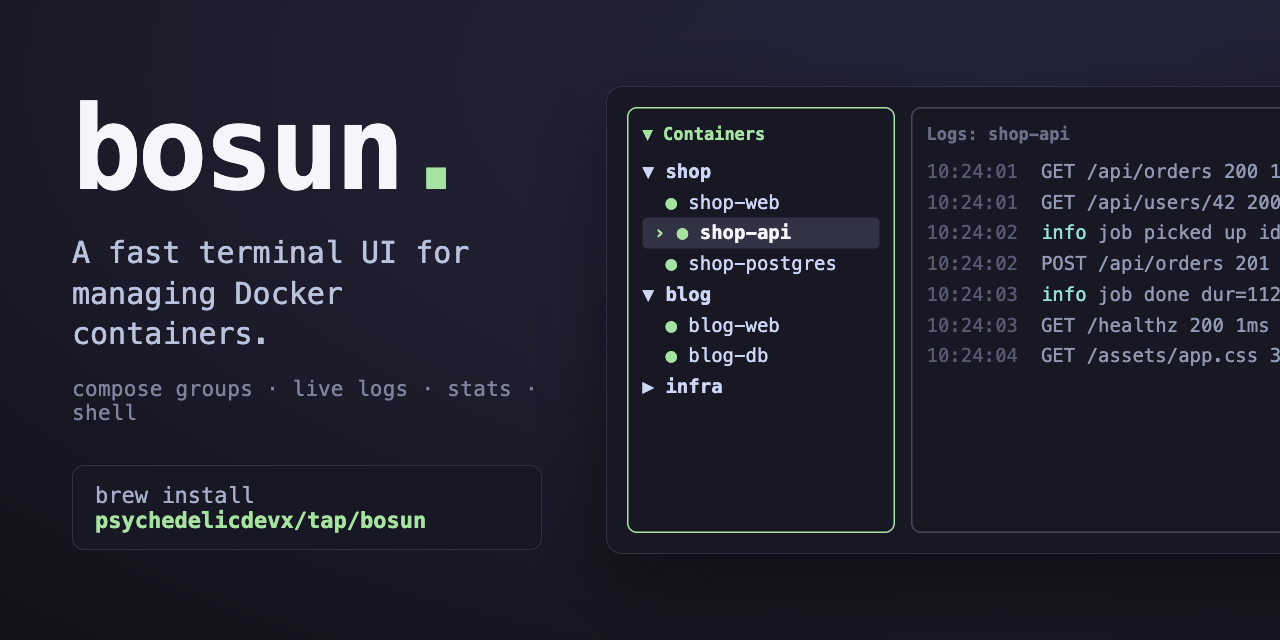
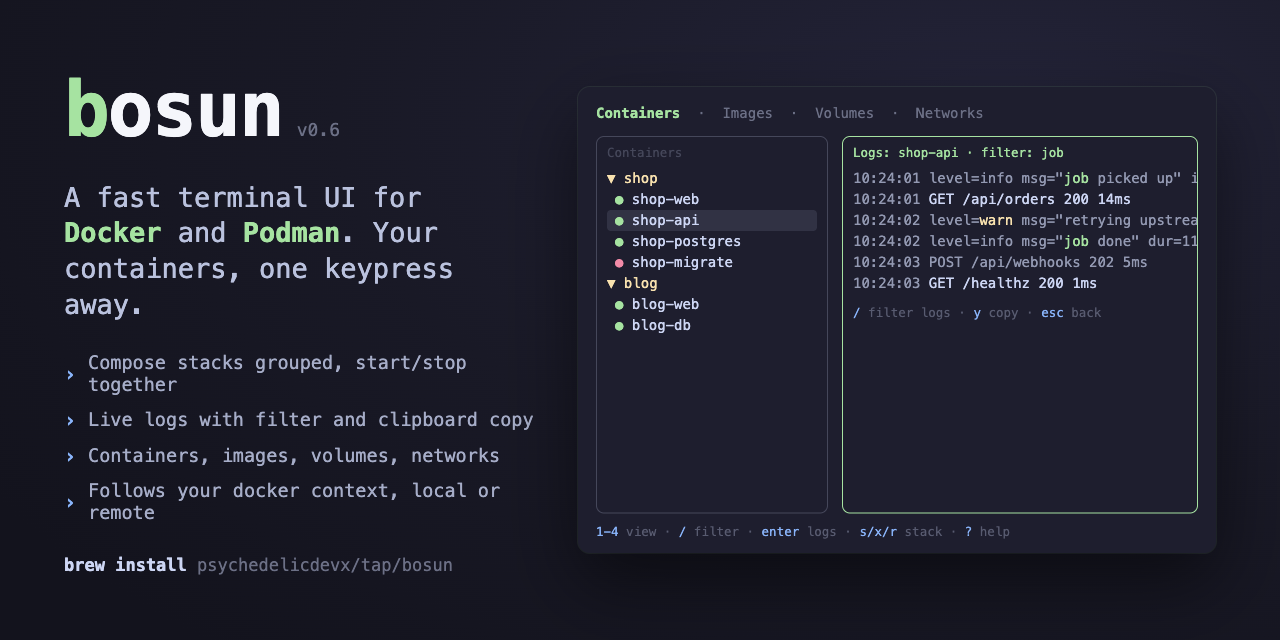
chore(media): rebuild social card for v0.6 (add source html)

diff --git a/docs/social-preview.html b/docs/social-preview.html
@@ -1,0 +1,116 @@
+<!doctype html>
+<html>
+<head>
+<meta charset="utf-8">
+<style>
+  * { margin: 0; padding: 0; box-sizing: border-box; }
+  html, body { width: 1280px; height: 640px; }
+  body {
+    display: flex;
+    align-items: center;
+    gap: 44px;
+    padding: 64px;
+    background: radial-gradient(1200px 700px at 78% 18%, #232338 0%, #191926 55%, #13131d 100%);
+    font-family: "SF Mono", "JetBrains Mono", "Menlo", monospace;
+    color: #cdd6f4;
+    overflow: hidden;
+  }
+
+  .left { width: 470px; flex: none; }
+  .brand { display: flex; align-items: baseline; gap: 14px; margin-bottom: 26px; }
+  .logo { font-size: 76px; font-weight: 700; letter-spacing: -2px; color: #f5f6fb; }
+  .logo .b { color: #a6e3a1; }
+  .ver { font-size: 18px; color: #6c7086; padding-bottom: 12px; }
+
+  .tag { font-size: 27px; line-height: 1.32; color: #bac2de; margin-bottom: 30px; font-weight: 500; }
+  .tag b { color: #a6e3a1; font-weight: 600; }
+
+  ul { list-style: none; display: flex; flex-direction: column; gap: 13px; }
+  li { font-size: 18.5px; color: #a6adc8; display: flex; align-items: center; gap: 12px; }
+  li::before { content: "›"; color: #89b4fa; font-weight: 700; font-size: 20px; }
+
+  .foot { margin-top: 32px; font-size: 17px; color: #6c7086; }
+  .foot b { color: #cdd6f4; font-weight: 600; }
+
+  /* terminal mock */
+  .term {
+    flex: 1;
+    height: 466px;
+    background: #1e1e2e;
+    border-radius: 12px;
+    box-shadow: 0 30px 70px rgba(0,0,0,.5), 0 0 0 1px rgba(166,227,161,.10);
+    padding: 16px 18px 12px;
+    display: flex;
+    flex-direction: column;
+    font-size: 14px;
+    line-height: 1.5;
+    overflow: hidden;
+  }
+  .tabs { color: #6c7086; margin-bottom: 12px; font-size: 14px; }
+  .tabs .on { color: #a6e3a1; font-weight: 600; }
+  .panels { display: flex; gap: 14px; flex: 1; min-height: 0; }
+  .panel { border: 1px solid #45475a; border-radius: 8px; padding: 6px 10px; min-height: 0; overflow: hidden; }
+  .panel.left-p { width: 232px; flex: none; }
+  .panel.right-p { flex: 1; border-color: #a6e3a1; }
+  .ptitle { color: #45475a; font-size: 12.5px; margin-bottom: 6px; }
+  .panel.right-p .ptitle { color: #a6e3a1; }
+
+  .grp { color: #f9e2af; }
+  .row { color: #cdd6f4; padding-left: 8px; }
+  .row .dot { color: #a6e3a1; }
+  .row .red { color: #f38ba8; }
+  .sel { background: #313244; border-radius: 4px; }
+
+  .log { color: #9399b2; white-space: nowrap; }
+  .log .m { color: #a6e3a1; }
+  .log .w { color: #f9e2af; }
+  .log .hi { color: #cdd6f4; }
+  .bar { margin-top: 9px; color: #585b70; font-size: 12.5px; }
+  .bar .k { color: #89b4fa; }
+</style>
+</head>
+<body>
+  <div class="left">
+    <div class="brand">
+      <div class="logo"><span class="b">b</span>osun</div>
+      <div class="ver">v0.6</div>
+    </div>
+    <div class="tag">A fast terminal UI for <b>Docker</b> and <b>Podman</b>. Your containers, one keypress away.</div>
+    <ul>
+      <li>Compose stacks grouped, start/stop together</li>
+      <li>Live logs with filter and clipboard copy</li>
+      <li>Containers, images, volumes, networks</li>
+      <li>Follows your docker context, local or remote</li>
+    </ul>
+    <div class="foot"><b>brew install</b> psychedelicdevx/tap/bosun</div>
+  </div>
+
+  <div class="term">
+    <div class="tabs"><span class="on">Containers</span> &nbsp;·&nbsp; Images &nbsp;·&nbsp; Volumes &nbsp;·&nbsp; Networks</div>
+    <div class="panels">
+      <div class="panel left-p">
+        <div class="ptitle">Containers</div>
+        <div class="grp">▼ shop</div>
+        <div class="row"><span class="dot">●</span> shop-web</div>
+        <div class="row sel"><span class="dot">●</span> shop-api</div>
+        <div class="row"><span class="dot">●</span> shop-postgres</div>
+        <div class="row"><span class="red">●</span> shop-migrate</div>
+        <div class="grp">▼ blog</div>
+        <div class="row"><span class="dot">●</span> blog-web</div>
+        <div class="row"><span class="dot">●</span> blog-db</div>
+      </div>
+      <div class="panel right-p">
+        <div class="ptitle">Logs: shop-api  ·  filter: job</div>
+        <div class="log">10:24:01 level=info msg="<span class="m">job</span> picked up" id=8841</div>
+        <div class="log">10:24:01 <span class="hi">GET  /api/orders     200  14ms</span></div>
+        <div class="log">10:24:02 level=<span class="w">warn</span> msg="retrying upstream"</div>
+        <div class="log">10:24:02 level=info msg="<span class="m">job</span> done" dur=112ms</div>
+        <div class="log">10:24:03 POST /api/webhooks   202   5ms</div>
+        <div class="log">10:24:03 <span class="hi">GET  /healthz        200   1ms</span></div>
+        <div class="bar"><span class="k">/</span> filter logs · <span class="k">y</span> copy · <span class="k">esc</span> back</div>
+      </div>
+    </div>
+    <div class="bar"><span class="k">1-4</span> view · <span class="k">/</span> filter · <span class="k">enter</span> logs · <span class="k">s/x/r</span> stack · <span class="k">?</span> help</div>
+  </div>
+</body>
+</html>
